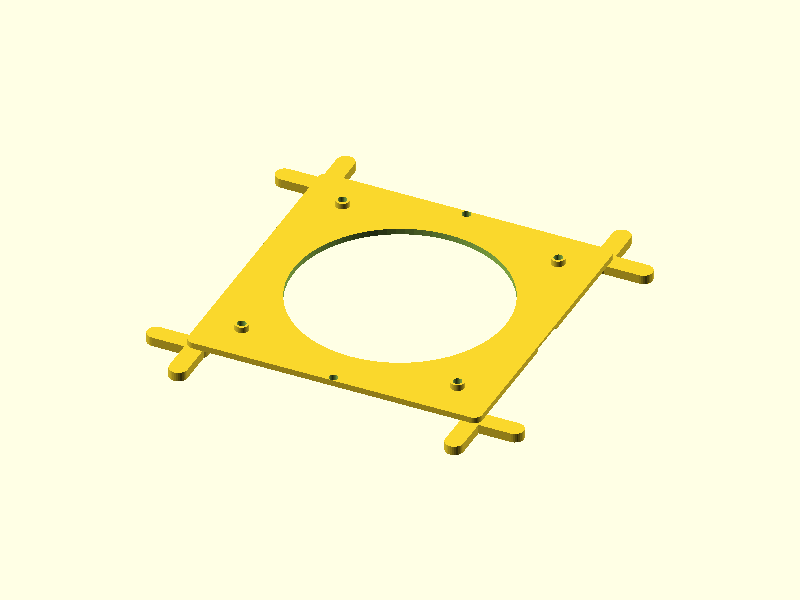
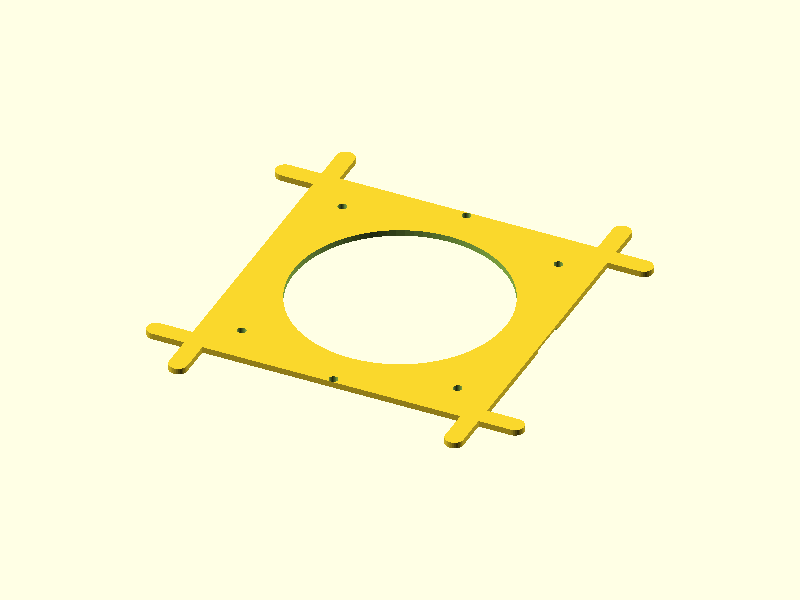
Flatten fan-tub-adapter: branches in-plane, remove standoffs
Branches were incorrectly below the frame plate, creating a 4.6mm gap
between the lid and fan. Now everything is one flat 3mm plate — branches
extend in-plane into waffle channels, fan bolts directly to the surface.
Total Z reduced from 10.6mm to 3mm. Updated spec, docs, and renders.

diff --git a/docs/fan-tub-adapter.md b/docs/fan-tub-adapter.md
@@ -15,13 +15,15 @@ The tub lid has a rigid waffle pattern — a grid of raised squares separated by
 
 Instead of cutting a circle, the user cuts out a **2x2 block of waffle squares** (136.8 x 136.8mm) using a jigsaw along the straight channel lines. The adapter is a flat frame that drops into this rectangular hole and locks into the surrounding waffle grid.
 
+The entire part is a single flat plate — 3mm thick throughout. The fan bolts directly to the top surface with no standoffs or air gap.
+
 ### Key Features
 
 **Y-Shaped Corner Branches** — The signature feature. Each of the 4 corners has a forking branch that extends into the two perpendicular waffle channels adjacent to that corner. The waffle squares on either side of each channel constrain the branch laterally. This gives 8 engagement points total, providing excellent anti-rotation and alignment with zero fasteners.
 
 **Flange Lip** — The frame extends 4.5mm beyond the cutout on all sides, sitting on the flat rim around the hole. This prevents the adapter from dropping through.
 
-**Fan Standoffs** — Four 3mm-tall bosses at the 107mm M4 bolt pattern raise the fan above the frame surface, leaving a gap for airflow between the fan and the frame.
+**Direct Fan Mount** — Four M4 through-holes at the 107mm bolt pattern. The fan sits flush on the frame surface with no standoffs — bolts pass through the fan frame and adapter, secured with nuts below.
 
 **Tool-Free Removal** — Two M4 thumbscrews on opposite sides of the flange clamp the adapter to the lid with wing nuts below. The branches handle alignment; the thumbscrews just hold it down. Undo two wing nuts and the whole assembly lifts out.
 
@@ -33,7 +35,7 @@ Instead of cutting a circle, the user cuts out a **2x2 block of waffle squares**
 
 ![Isometric view of the fan-tub-adapter](images/fan-tub-adapter/fan-tub-adapter-iso.png)
 
-The flat frame with center airflow opening, four fan standoff bosses (with M4 through-holes), Y-branches extending from each corner, and the wire channel notch on the right edge.
+The flat frame with center airflow opening, four M4 through-holes at the fan bolt pattern, Y-branches extending from each corner, and the wire channel notch on the right edge.
 
 ### Front View (XZ Plane)
 
@@ -47,21 +49,22 @@ Looking straight down. Shows the square frame, circular center opening, 8 branch
 |:-:|:-:|
 | ![Right view](images/fan-tub-adapter/fan-tub-adapter-right.png) | ![Top view](images/fan-tub-adapter/fan-tub-adapter-top.png) |
 
-The part is only 10.6mm tall, so the side views show the thin profile: branches below (4.6mm), frame plate (3mm), and standoffs above (3mm).
+The part is only 3mm tall — a uniform flat plate. The side views show the thin profile with branches and frame all in the same plane.
 
 ## Cross-Section
 
 How the parts stack when installed:
 
 ```
-    Fan (sits on standoffs)
-  ──────────────────────         ← standoffs (3mm)
-  ═══════════════════════════    ← main frame + flange (3mm)
-  ──╗                     ╔──   ← Y-branches (4.6mm, sit on lid surface)
-    ║   waffle squares    ║        constrain branch laterally
-    ╚════════╤════════════╝
-  ───────────┘                   ← lid surface (2mm thick)
+    Fan frame (sits flush on adapter)
+  ════════════════════════════════       ← adapter plate (3mm), branches in-plane
+  ──╗                          ╔──      ← waffle squares (4.6mm tall)
+    ║   constrain branches     ║           surround and locate the branches
+    ╚═══════════╤══════════════╝
+  ──────────────┘                       ← lid surface (2mm thick)
 ```
+
+The adapter plate sits on the flat channel-level rim. The waffle squares rise 4.6mm around the 3mm-thick branches, providing 1.6mm of lateral engagement above the branch surface. The fan sits directly on the adapter with no gap.
 
 ## Geometry
 
@@ -69,22 +72,20 @@ How the parts stack when installed:
 |-----------|-------|
 | Cutout hole | 136.8 x 136.8 mm |
 | Frame outer (with flange) | 145.8 x 145.8 mm |
-| Overall bounding box | 186.8 x 186.8 x 10.6 mm |
+| Overall bounding box | 186.8 x 186.8 x 3.0 mm |
 | Center opening | 105 mm diameter |
 | Fan bolt pattern | 107 x 107 mm (M4) |
 | Branch width | 9.0 mm (0.4mm clearance in 9.4mm channels) |
-| Branch height | 4.6 mm (matches waffle square protrusion) |
 | Branch engagement length | 25 mm per arm |
-| Frame thickness | 3.0 mm |
-| Standoff height | 3.0 mm |
+| Frame/branch thickness | 3.0 mm (uniform) |
 | Corner radius | 4.0 mm |
 
 ## Fastener BOM
 
 | Qty | Item | Purpose |
 |-----|------|---------|
-| 4 | M4 x 30mm socket head bolts | Fan to adapter (through fan, standoffs, frame) |
-| 4 | M4 nylon lock nuts | Secure fan bolts from below frame |
+| 4 | M4 x 12mm socket head bolts | Fan to adapter (through fan frame + adapter plate) |
+| 4 | M4 nylon lock nuts | Secure fan bolts from below |
 | 2 | M4 x 16mm thumbscrews | Adapter to lid clamping (opposite sides) |
 | 2 | M4 wing nuts | Below-lid, tool-free removal |
 
@@ -94,21 +95,20 @@ How the parts stack when installed:
 |---------|-------|
 | Material | PLA |
 | Layer height | 0.2 mm |
-| Infill | 30%+ (frame is thin, mostly walls anyway) |
+| Infill | 100% (only 3mm thick — 15 layers, mostly perimeters anyway) |
 | Supports | None needed |
-| Orientation | Frame flat on bed, branches facing up |
-| Estimated print time | ~45 min |
-| Estimated material | ~46 cm³ |
+| Orientation | Flat on bed (only orientation that makes sense) |
+| Estimated material | ~42 cm³ |
 
 ## Validation Results
 
 ```
-bbox.x:    186.8 mm  (expected 186 ±2)   PASS
-bbox.y:    186.8 mm  (expected 186 ±2)   PASS
-bbox.z:    10.6 mm   (expected 10.6 ±1)  PASS
-watertight: true                          PASS
-volume:    45.8 cm³  (expected 15–80)     PASS
-fits bed:  186.8 mm  (max 256)            PASS
+bbox.x:    186.8 mm  (expected 186 ±2)    PASS
+bbox.y:    186.8 mm  (expected 186 ±2)    PASS
+bbox.z:    3.0 mm    (expected 3 ±0.5)    PASS
+watertight: true                           PASS
+volume:    41.6 cm³  (expected 5–50)       PASS
+fits bed:  186.8 mm  (max 256)             PASS
 ```
 
 ## Source Files
